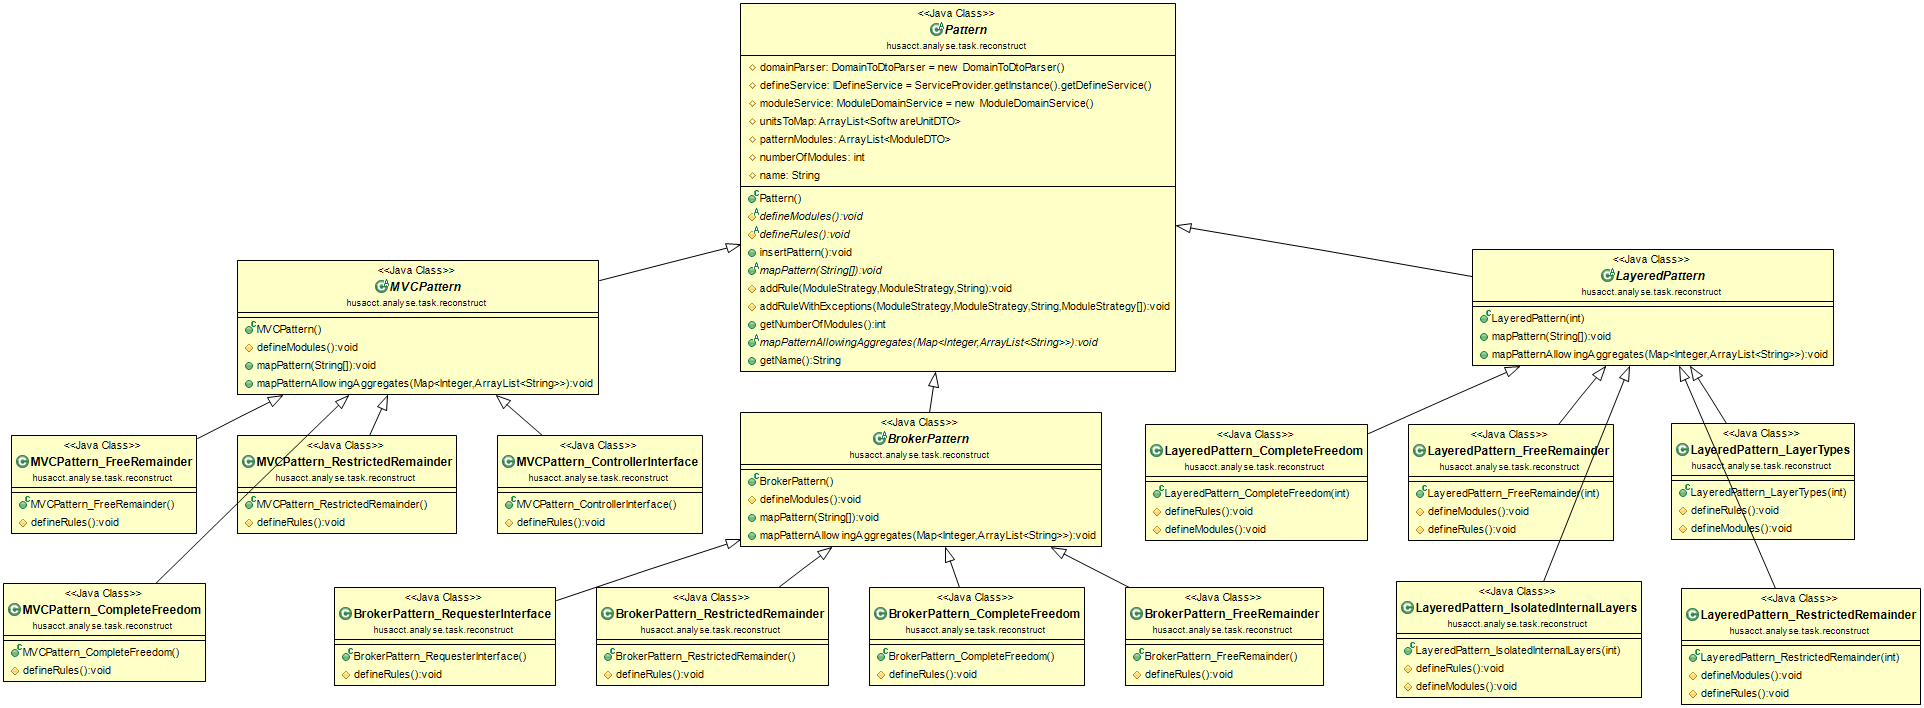
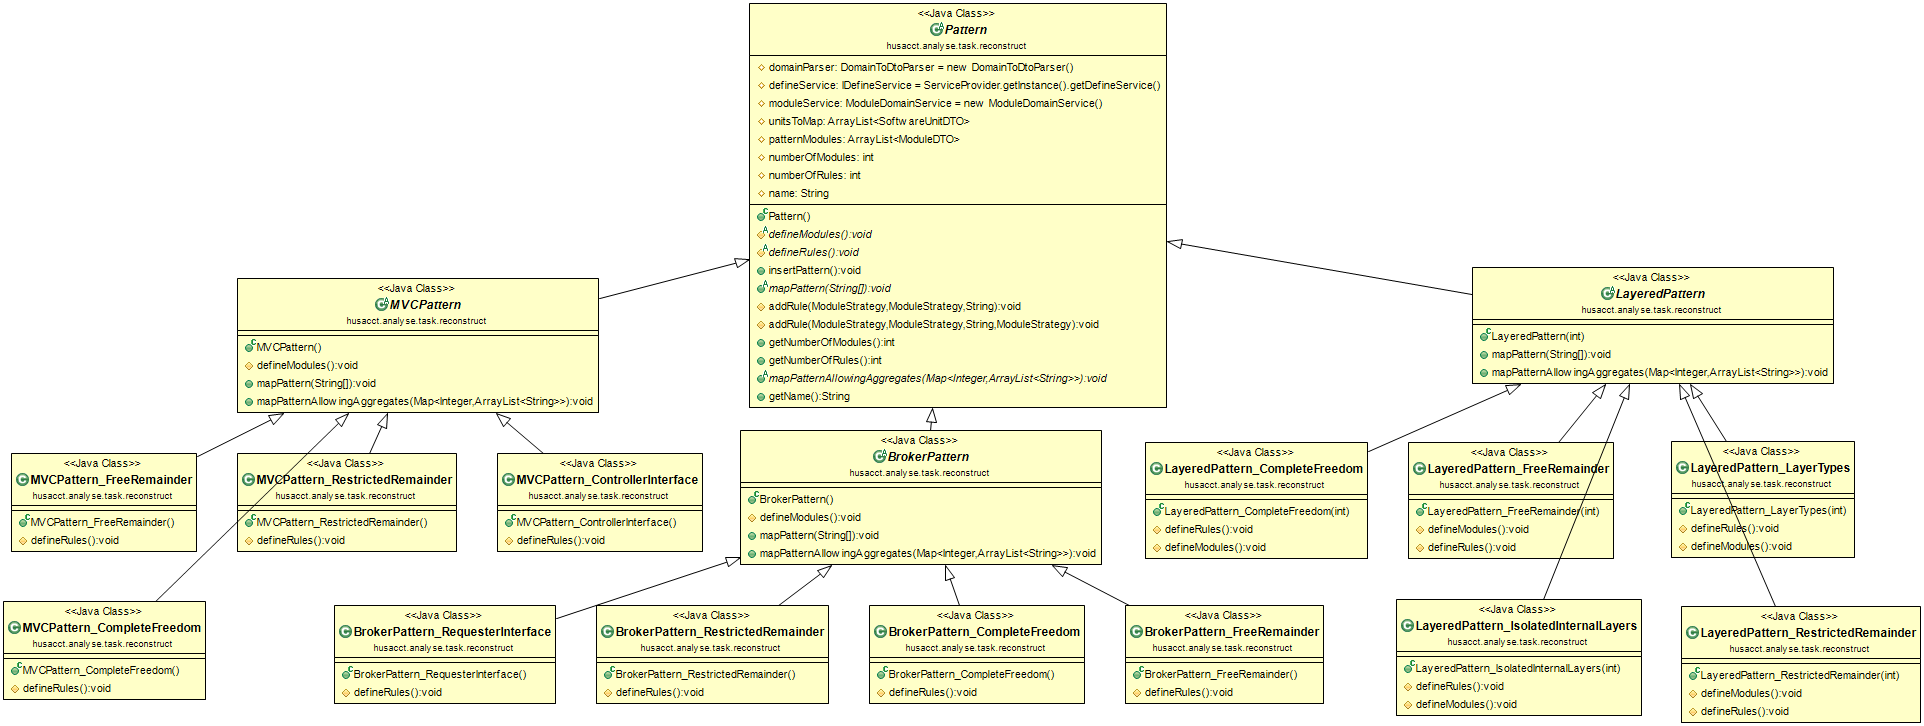
New mapping generator in progress.

diff --git a/src/husacct/analyse/task/reconstruct/ReconstructArchitecture.java b/src/husacct/analyse/task/reconstruct/ReconstructArchitecture.java
@@ -53,8 +53,8 @@ public class ReconstructArchitecture {
 		defineService = ServiceProvider.getInstance().getDefineService();
 		validateService = ServiceProvider.getInstance().getValidateService();
 		identifyExternalSystems();
-		// determineInternalRootPackagesWithClasses();
-		determineInternalRootPackagesWithClassesIncludingClasses();
+		determineInternalRootPackagesWithClasses();
+		// determineInternalRootPackagesWithClassesIncludingClasses();
 		// If source code is not well structured in a package hierarchy, including individual classes in the root might help.
 
 		String pattern = "MVC";
@@ -202,7 +202,8 @@ public class ReconstructArchitecture {
 		logger.info("Best " + numberOfTopCandidates + " candidates: ");
 		for (int i = 0; i < numberOfTopCandidates; i++) {
 			// A fitness score between 0 and 1 is more intuitive for the output, but the genetic algorithm requires 1.0 to be the lowest score.
-			logger.info("Fitness score: " + (candidateScores[i][0] - 1) + ". Mapped software units unique names: " + Arrays.deepToString(patternNames[(int) candidateScores[i][1]]));
+			logger.info("Fitness score: " + (candidateScores[i][0] - 1) + ". Mapped software units unique names: "
+					+ Arrays.deepToString(patternNames[(int) candidateScores[i][1]]));
 		}
 		currentPattern.mapPattern(patternNames[(int) candidateScores[numberOfTopCandidates - 1][1]]);
 		logger.info("This last mapping was selected for the intended architecture by default.");
@@ -481,8 +482,10 @@ public class ReconstructArchitecture {
 			boolean rootPackageDoesNotUseOtherPackage = true;
 			for (SoftwareUnitDTO otherSoftwareUnit : assignedUnitsBottomLayerClone) {
 				if (!otherSoftwareUnit.uniqueName.equals(softwareUnit.uniqueName)) {
-					int nrOfDependenciesFromsoftwareUnitToOther = queryService.getDependenciesFromSoftwareUnitToSoftwareUnit(softwareUnit.uniqueName, otherSoftwareUnit.uniqueName).length;
-					int nrOfDependenciesFromOtherTosoftwareUnit = queryService.getDependenciesFromSoftwareUnitToSoftwareUnit(otherSoftwareUnit.uniqueName, softwareUnit.uniqueName).length;
+					int nrOfDependenciesFromsoftwareUnitToOther = queryService.getDependenciesFromSoftwareUnitToSoftwareUnit(softwareUnit.uniqueName,
+							otherSoftwareUnit.uniqueName).length;
+					int nrOfDependenciesFromOtherTosoftwareUnit = queryService.getDependenciesFromSoftwareUnitToSoftwareUnit(otherSoftwareUnit.uniqueName,
+							softwareUnit.uniqueName).length;
 					if (nrOfDependenciesFromsoftwareUnitToOther > ((nrOfDependenciesFromOtherTosoftwareUnit / 100) * layerThreshold)) {
 						rootPackageDoesNotUseOtherPackage = false;
 					}
@@ -513,13 +516,15 @@ public class ReconstructArchitecture {
 				int nrOfDependenciesFromSoftwareUnitToOtherWithinLayer = 0;
 				int nrOfSkipCallsFromSoftwareUnitToOtherLayers = 0;
 				for (SoftwareUnitDTO otherSoftwareUnit : unitsInCurrentLayer) {
-					nrOfDependenciesFromSoftwareUnitToOtherWithinLayer += queryService.getDependenciesFromSoftwareUnitToSoftwareUnit(softwareUnit.uniqueName, otherSoftwareUnit.uniqueName).length;
+					nrOfDependenciesFromSoftwareUnitToOtherWithinLayer += queryService.getDependenciesFromSoftwareUnitToSoftwareUnit(softwareUnit.uniqueName,
+							otherSoftwareUnit.uniqueName).length;
 				}
 				for (int currentLowerLayerID = currentLayerID - 2; currentLowerLayerID < 0; currentLowerLayerID--) {
 					unitsInCurrentLowerLayer = layers.get(currentLowerLayerID);
 					for (SoftwareUnitDTO lowerSoftwareUnit : unitsInCurrentLowerLayer) {
 						if (!lowerSoftwareUnit.uniqueName.equals(softwareUnit.uniqueName)) {
-							nrOfSkipCallsFromSoftwareUnitToOtherLayers += queryService.getDependenciesFromSoftwareUnitToSoftwareUnit(softwareUnit.uniqueName, lowerSoftwareUnit.uniqueName).length;
+							nrOfSkipCallsFromSoftwareUnitToOtherLayers += queryService.getDependenciesFromSoftwareUnitToSoftwareUnit(softwareUnit.uniqueName,
+									lowerSoftwareUnit.uniqueName).length;
 						}
 					}
 				}

diff --git a/src/husaccttest/analyse/architecturalPatternTest.java b/src/husaccttest/analyse/architecturalPatternTest.java
@@ -2,48 +2,74 @@ package husaccttest.analyse;
 
 import static org.junit.Assert.assertEquals;
 
-import org.junit.After;
-import org.junit.AfterClass;
-import org.junit.Before;
+import java.util.ArrayList;
+import java.util.Iterator;
+
 import org.junit.BeforeClass;
 import org.junit.Test;
 
 import husacct.ServiceProvider;
+import husacct.analyse.task.reconstruct.BrokerPattern_CompleteFreedom;
+import husacct.analyse.task.reconstruct.BrokerPattern_FreeRemainder;
+import husacct.analyse.task.reconstruct.BrokerPattern_RequesterInterface;
+import husacct.analyse.task.reconstruct.BrokerPattern_RestrictedRemainder;
+import husacct.analyse.task.reconstruct.LayeredPattern_CompleteFreedom;
+import husacct.analyse.task.reconstruct.LayeredPattern_FreeRemainder;
+import husacct.analyse.task.reconstruct.LayeredPattern_IsolatedInternalLayers;
+import husacct.analyse.task.reconstruct.LayeredPattern_RestrictedRemainder;
+import husacct.analyse.task.reconstruct.MVCPattern_CompleteFreedom;
+import husacct.analyse.task.reconstruct.MVCPattern_ControllerInterface;
 import husacct.analyse.task.reconstruct.MVCPattern_FreeRemainder;
+import husacct.analyse.task.reconstruct.MVCPattern_RestrictedRemainder;
 import husacct.analyse.task.reconstruct.Pattern;
 import husacct.define.IDefineService;
 
 public class architecturalPatternTest {
 	static Pattern currentPattern = null;
 	static IDefineService defineService;
+	static ArrayList<Pattern> list = new ArrayList<Pattern>();
+	static Iterator<Pattern> it;
 
 	@BeforeClass
 	public static void setUpBeforeClass() throws Exception {
-		currentPattern = new MVCPattern_FreeRemainder();
 		defineService = ServiceProvider.getInstance().getDefineService();
-
+		addPatternTypes();
+		it = list.iterator();
 	}
 
-	@AfterClass
-	public static void tearDownAfterClass() throws Exception {
-	}
-
-	@Before
-	public void setUp() throws Exception {
-	}
-
-	@After
-	public void tearDown() throws Exception {
-	}
-
-	@Test
-	public void testPatternInsertion1() {
-		currentPattern.insertPattern();
+	private static void addPatternTypes() { // Add new pattern classes here.
+		try {
+			list.add(LayeredPattern_CompleteFreedom.class.newInstance());
+			list.add(LayeredPattern_FreeRemainder.class.newInstance());
+			list.add(LayeredPattern_IsolatedInternalLayers.class.newInstance());
+			list.add(LayeredPattern_RestrictedRemainder.class.newInstance());
+			list.add(MVCPattern_FreeRemainder.class.newInstance());
+			list.add(MVCPattern_CompleteFreedom.class.newInstance());
+			list.add(MVCPattern_ControllerInterface.class.newInstance());
+			list.add(MVCPattern_FreeRemainder.class.newInstance());
+			list.add(MVCPattern_RestrictedRemainder.class.newInstance());
+			list.add(BrokerPattern_RequesterInterface.class.newInstance());
+			list.add(BrokerPattern_FreeRemainder.class.newInstance());
+			list.add(BrokerPattern_CompleteFreedom.class.newInstance());
+			list.add(BrokerPattern_RequesterInterface.class.newInstance());
+			list.add(BrokerPattern_RestrictedRemainder.class.newInstance());
+		} catch (InstantiationException e) {
+			e.printStackTrace();
+		} catch (IllegalAccessException e) {
+			e.printStackTrace();
+		}
 	}
 
 	@Test
 	public void testNumberOfRules() {
-		assertEquals("INCORRECT NUMBER OF RULES", 8, defineService.getDefinedRules().length);
+		while (it.hasNext()) {
+			currentPattern = (Pattern) it.next();
+			currentPattern.insertPattern();
+			assertEquals("INCORRECT NUMBER OF RULES FOR: " + currentPattern, currentPattern.getNumberOfRules(), defineService.getDefinedRules().length);
+			System.out.println(currentPattern);
+			defineService.resetDefinedArchitecture();
+		}
+
 	}
 
 }

diff --git a/src/husacct/analyse/task/reconstruct/Pattern.java b/src/husacct/analyse/task/reconstruct/Pattern.java
@@ -21,6 +21,7 @@ public abstract class Pattern {
 	protected ArrayList<SoftwareUnitDTO> unitsToMap;
 	protected ArrayList<ModuleDTO> patternModules;
 	protected int numberOfModules;
+	protected int numberOfRules;
 	protected String name;
 
 	// Add modules to the intended architecture in line with an architectural pattern.
@@ -31,6 +32,7 @@ public abstract class Pattern {
 
 	// Insert a pattern into the intended architecture.
 	public void insertPattern() {
+		numberOfRules = 0;
 		defineModules();
 		defineRules();
 	}
@@ -40,15 +42,22 @@ public abstract class Pattern {
 
 	protected void addRule(ModuleStrategy moduleTo, ModuleStrategy moduleFrom, String ruleType) {
 		defineService.addRule(new RuleDTO(ruleType, true, domainParser.parseModule(moduleTo), domainParser.parseModule(moduleFrom), new String[0], "", null, false));
+		numberOfRules++;
 	}
 
 	protected void addRule(ModuleStrategy moduleTo, ModuleStrategy moduleFrom, String ruleType, ModuleStrategy exception) {
 		defineService.addRuleWithException(
 				new RuleDTO(ruleType, true, domainParser.parseModule(moduleTo), domainParser.parseModule(moduleFrom), new String[0], "", null, false), exception);
+		numberOfRules += 2; // An exception is essentially an additional rule (e.g. two "Is only allowed to use" rules coming from the same module is
+							// simply one such rule plus an exception of that rule.)
 	}
 
 	public int getNumberOfModules() {
 		return numberOfModules;
+	}
+
+	public int getNumberOfRules() {
+		return numberOfRules;
 	}
 
 	public abstract void mapPatternAllowingAggregates(Map<Integer, ArrayList<String>> patternUnitNames);

diff --git a/src/husacct/analyse/task/reconstruct/MappingCalculator.java b/src/husacct/analyse/task/reconstruct/MappingCalculator.java
@@ -1,0 +1,51 @@
+package husacct.analyse.task.reconstruct;
+
+import java.util.ArrayList;
+import java.util.Iterator;
+import java.util.List;
+
+public class MappingCalculator {
+	List<List<Integer>> results;
+	boolean mapped = false;
+	Iterator<List<Integer>> sublistIterator;
+
+	public void findAllSublists(List<Integer> list, int minimalLengthOfSublist) {
+		results = new ArrayList<List<Integer>>();
+		List<List<Integer>> sublists = new ArrayList<List<Integer>>();
+		for (int i = 0; i <= list.size(); i++) {
+			recursiveSublist(list, sublists, i, new ArrayList<Integer>(), 0);
+		}
+		for (List<Integer> subList : sublists) {
+			if (subList.size() >= minimalLengthOfSublist) {
+				results.add(subList);
+				// System.out.println("(" + subList + ")");
+
+			}
+		}
+		sublistIterator = results.iterator();
+		mapped = true;
+	}
+
+	public List<Integer> next() {
+		if (mapped == false) {
+			System.out.println("Error: sublists not yet determined. ");
+		} else {
+			if (sublistIterator.hasNext())
+				return sublistIterator.next();
+		}
+		return null;
+	}
+
+	private static void recursiveSublist(List<Integer> list, List<List<Integer>> subLists, int sublistSize, List<Integer> currentSubList, int startIndex) {
+		if (sublistSize == 0) {
+			subLists.add(currentSubList);
+		} else {
+			sublistSize--;
+			for (int i = startIndex; i < list.size(); i++) {
+				List<Integer> newSubList = new ArrayList<Integer>(currentSubList);
+				newSubList.add(list.get(i));
+				recursiveSublist(list, subLists, sublistSize, newSubList, i + 1);
+			}
+		}
+	}
+}

diff --git a/src/husaccttest/analyse/MappingCalculatorTest.java b/src/husaccttest/analyse/MappingCalculatorTest.java
@@ -1,0 +1,52 @@
+package husaccttest.analyse;
+
+import static org.junit.Assert.*;
+
+import java.util.Arrays;
+import java.util.List;
+
+import org.junit.After;
+import org.junit.AfterClass;
+import org.junit.Before;
+import org.junit.BeforeClass;
+import org.junit.Test;
+
+import husacct.analyse.task.reconstruct.MappingCalculator;
+
+public class MappingCalculatorTest {
+
+	static List<Integer> list;
+	static MappingCalculator mappingCalculator;
+
+	@BeforeClass
+	public static void setUpBeforeClass() throws Exception {
+		list = Arrays.asList(1, 2, 3, 4, 5, 6, 7);
+		mappingCalculator = new MappingCalculator();
+	}
+
+	@AfterClass
+	public static void tearDownAfterClass() throws Exception {
+	}
+
+	@Before
+	public void setUp() throws Exception {
+	}
+
+	@After
+	public void tearDown() throws Exception {
+	}
+
+	@Test
+	public void findSublistsTest() {
+		mappingCalculator.findAllSublists(list, 3);
+		List<Integer> sublist = mappingCalculator.next();
+		assertNotNull("MAPPING SUBLIST WAS NULL", sublist);
+		assertEquals("INITIAL MAPPING SUBLIST NOT THE EXPECTED SIZE", 3, sublist.size());
+		for (int i = 1; i < 99; i++) { // 99 = 7 choose 0 + 7 choose 1 + 7 choose 2 + 7 choose 3 + 7 choose 4.
+			sublist = mappingCalculator.next();
+			assertNotNull("MAPPING SUBLIST WAS NULL", sublist);
+		}
+		assertEquals("FINAL MAPPING SUBLIST NOT THE EXPECTED SIZE", 7, sublist.size());
+	}
+
+}

diff --git a/src/husacct/analyse/task/reconstruct/LayeredPattern_LayerTypes.java b/src/husacct/analyse/task/reconstruct/LayeredPattern_LayerTypes.java
@@ -1,19 +1,23 @@
 package husacct.analyse.task.reconstruct;
 
 public class LayeredPattern_LayerTypes extends LayeredPattern {
-// This is the N-Layered pattern with actual layer-type modules and the associated skip-call and back-call bans.
+	// This is the N-Layered pattern with actual layer-type modules and the associated skip-call and back-call bans.
 	public LayeredPattern_LayerTypes(int numberOfLayers) {
 		super(numberOfLayers);
-		// TODO Auto-generated constructor stub
+	}
+
+	public LayeredPattern_LayerTypes() {
+		super();
 	}
 
 	@Override
 	protected void defineRules() {
 		// Skip-call and back-call rules get added automatically, so there's no need for them here.
 		for (int i = 2; i <= numberOfModules; i++) {
-				addRule(moduleService.getModuleByLogicalPath("Layer" + i), moduleService.getModuleByLogicalPath("Layer" + (i - 1)), "MustUse");
+			addRule(moduleService.getModuleByLogicalPath("Layer" + i), moduleService.getModuleByLogicalPath("Layer" + (i - 1)), "MustUse");
 		}
 	}
+
 	@Override
 	protected void defineModules() {
 		for (int i = 1; i <= numberOfModules; i++) {

diff --git a/src/husacct/analyse/task/reconstruct/LayeredPattern_FreeRemainder.java b/src/husacct/analyse/task/reconstruct/LayeredPattern_FreeRemainder.java
@@ -4,7 +4,10 @@ public class LayeredPattern_FreeRemainder extends LayeredPattern {
 	// The version of the N-Layered pattern where the Remainder can all on any layer, though all but the final layer cannot call on the Remainder.
 	public LayeredPattern_FreeRemainder(int numberOfLayers) {
 		super(numberOfLayers);
-		// TODO Auto-generated constructor stub
+	}
+
+	public LayeredPattern_FreeRemainder() {
+		super();
 	}
 
 	@Override

diff --git a/src/husacct/analyse/task/reconstruct/LayeredPattern_RestrictedRemainder.java b/src/husacct/analyse/task/reconstruct/LayeredPattern_RestrictedRemainder.java
@@ -4,7 +4,10 @@ public class LayeredPattern_RestrictedRemainder extends LayeredPattern {
 	// An interpretation of the N-Layered pattern in which the layers can call upon the Remainder, but not vice versa.
 	public LayeredPattern_RestrictedRemainder(int numberOfLayers) {
 		super(numberOfLayers);
-		// TODO Auto-generated constructor stub
+	}
+
+	public LayeredPattern_RestrictedRemainder() {
+		super();
 	}
 
 	@Override

diff --git a/src/husacct/analyse/task/reconstruct/LayeredPattern_IsolatedInternalLayers.java b/src/husacct/analyse/task/reconstruct/LayeredPattern_IsolatedInternalLayers.java
@@ -4,7 +4,10 @@ public class LayeredPattern_IsolatedInternalLayers extends LayeredPattern {
 	// The version of the N-Layered pattern in which the internal layers are isolated from the Remainder.
 	public LayeredPattern_IsolatedInternalLayers(int numberOfLayers) {
 		super(numberOfLayers);
-		// TODO Auto-generated constructor stub
+	}
+
+	public LayeredPattern_IsolatedInternalLayers() {
+		super();
 	}
 
 	@Override

diff --git a/src/husacct/analyse/task/reconstruct/LayeredPattern_CompleteFreedom.java b/src/husacct/analyse/task/reconstruct/LayeredPattern_CompleteFreedom.java
@@ -4,7 +4,10 @@ public class LayeredPattern_CompleteFreedom extends LayeredPattern {
 	// The interpretation of the N-Layered pattern for which there exist no restriction for the Remainder to use the layers.
 	public LayeredPattern_CompleteFreedom(int numberOfLayers) {
 		super(numberOfLayers);
-		// TODO Auto-generated constructor stub
+	}
+
+	public LayeredPattern_CompleteFreedom() {
+		super();
 	}
 
 	@Override

diff --git a/src/husacct/analyse/task/reconstruct/LayeredPattern.java b/src/husacct/analyse/task/reconstruct/LayeredPattern.java
@@ -13,6 +13,10 @@ public abstract class LayeredPattern extends Pattern {
 		numberOfModules = numberOfLayers;
 		name = "Layered";
 	}
+	public LayeredPattern() {
+		numberOfModules = 3;
+		name = "Layered";
+	}
 
 	@Override
 	public void mapPattern(String[] mapping) {

diff --git a/src/husacct/define/IDefineService.java b/src/husacct/define/IDefineService.java
@@ -132,4 +132,6 @@ public interface IDefineService extends ISaveable, IObservableService {
 	public void addRule(RuleDTO rule);
 
 	public void addRuleWithException(RuleDTO ruleDTO, ModuleStrategy exception);
+	
+	public void resetDefinedArchitecture();
 }
